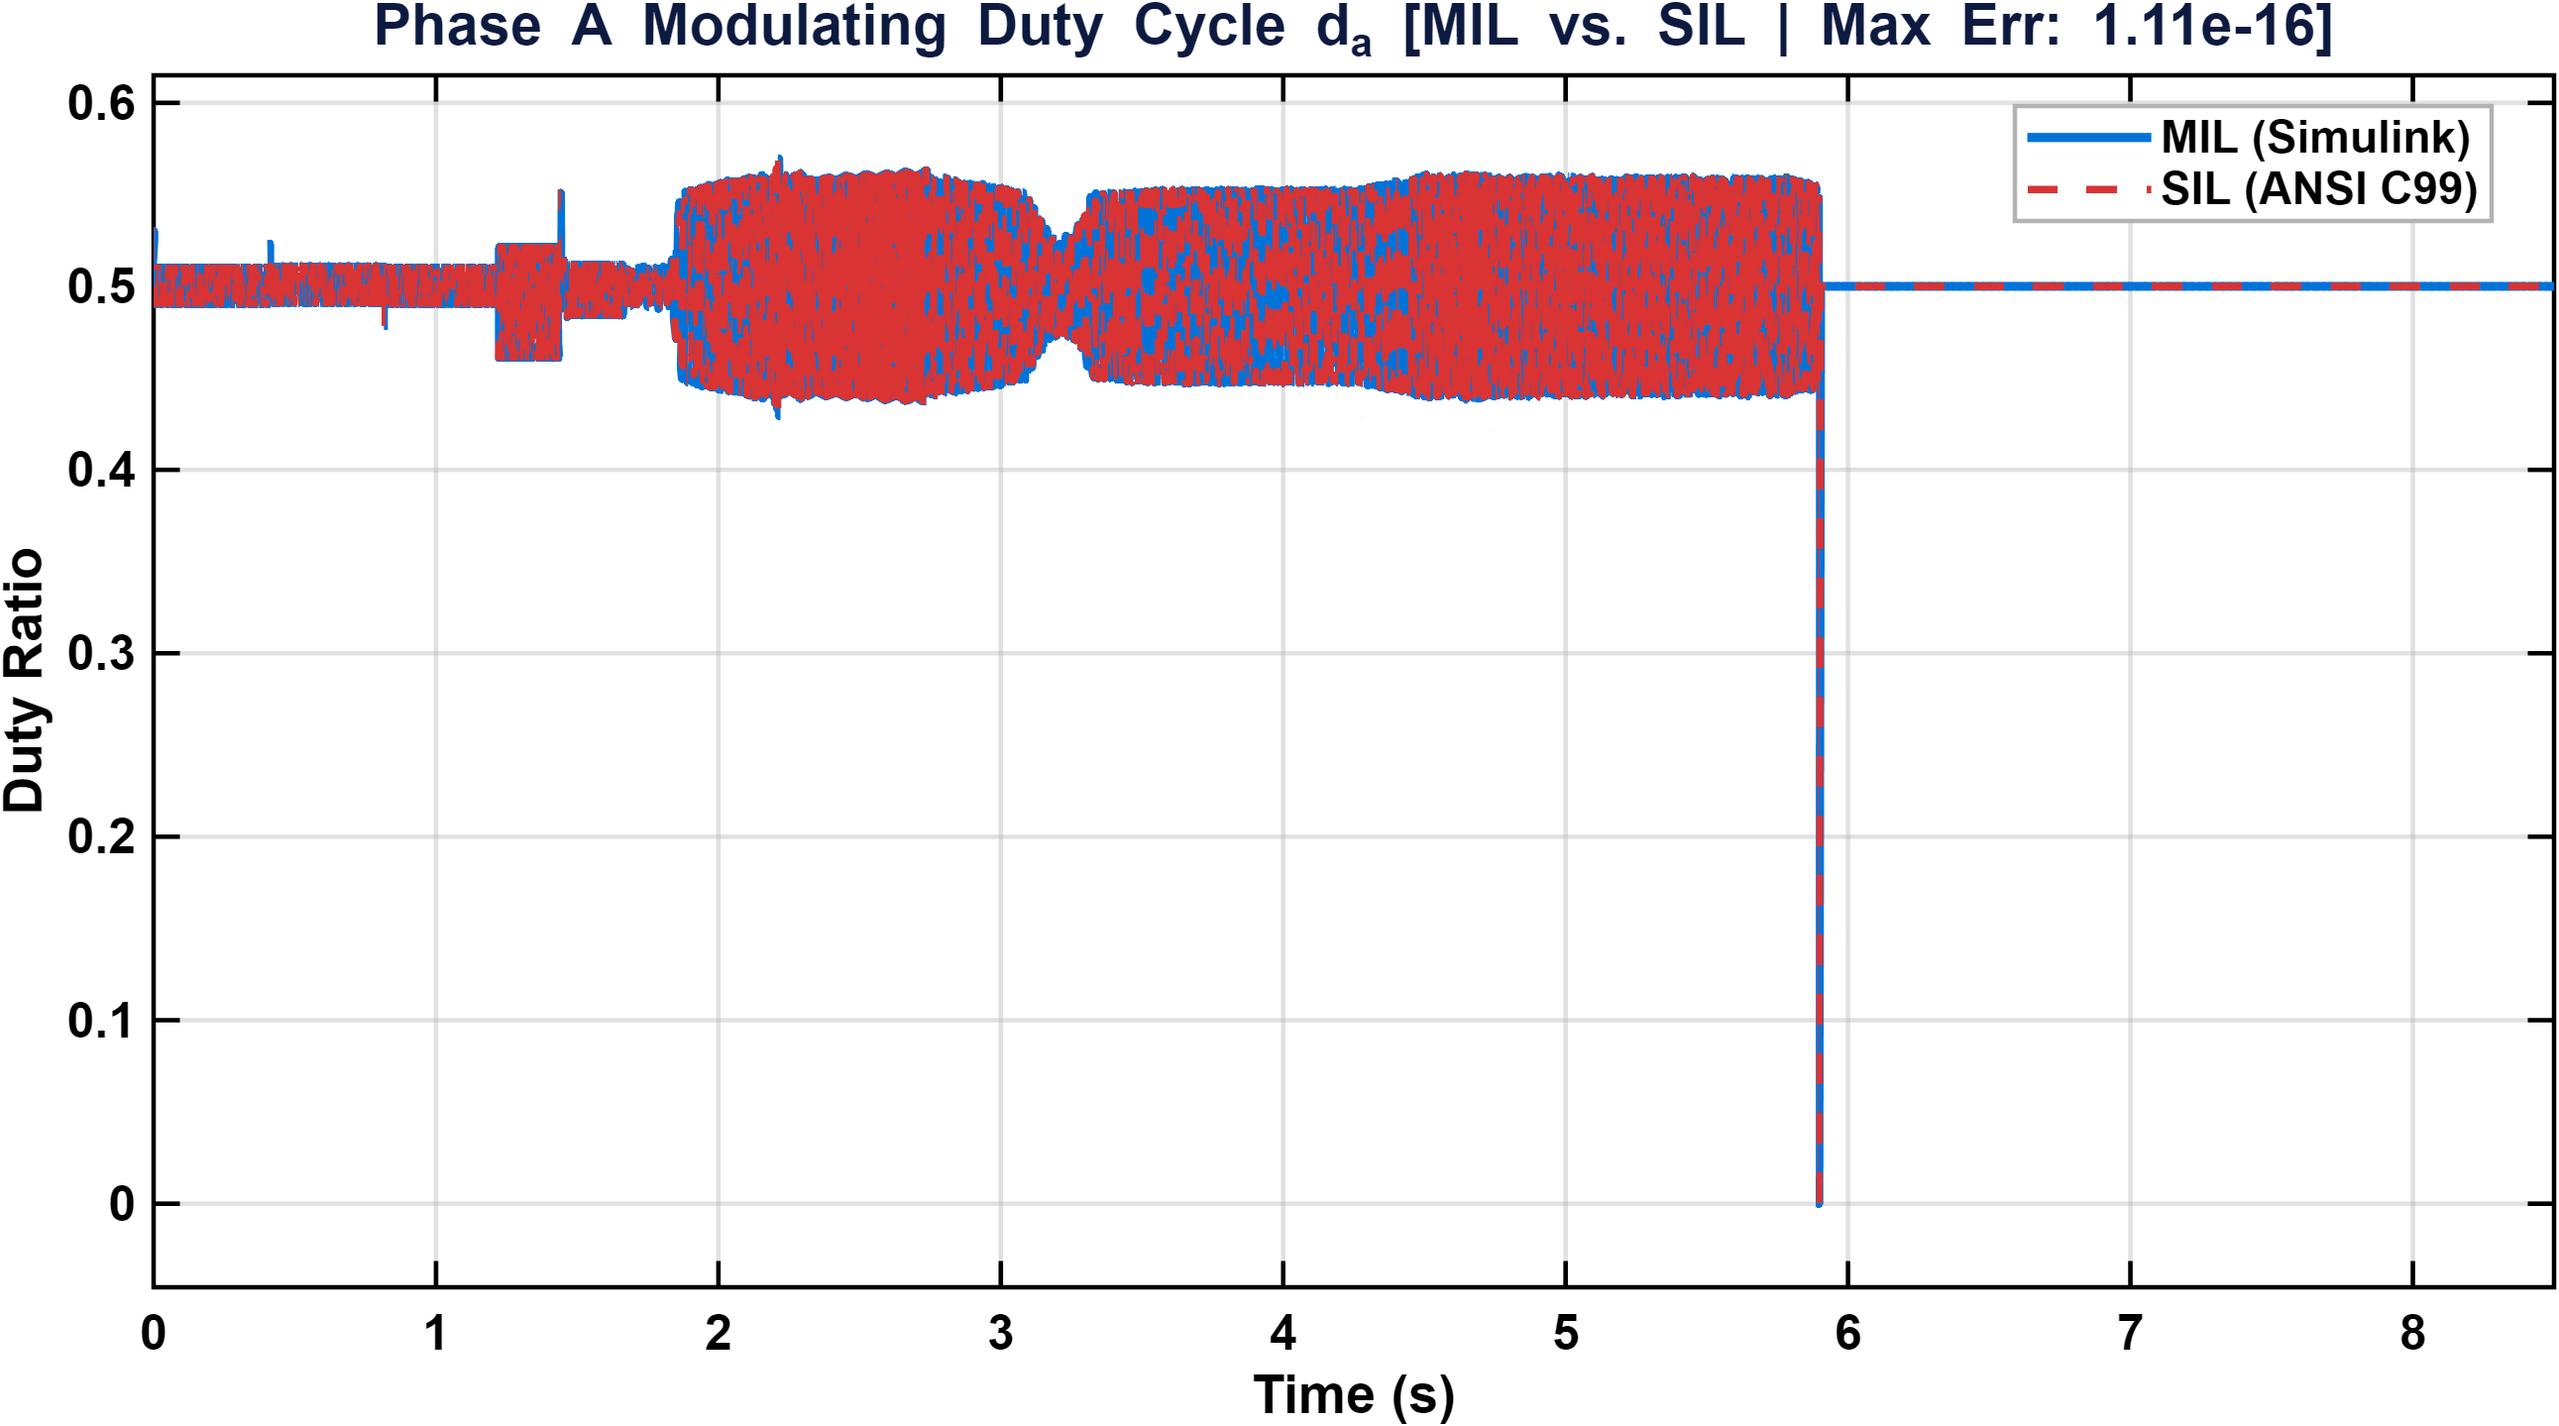
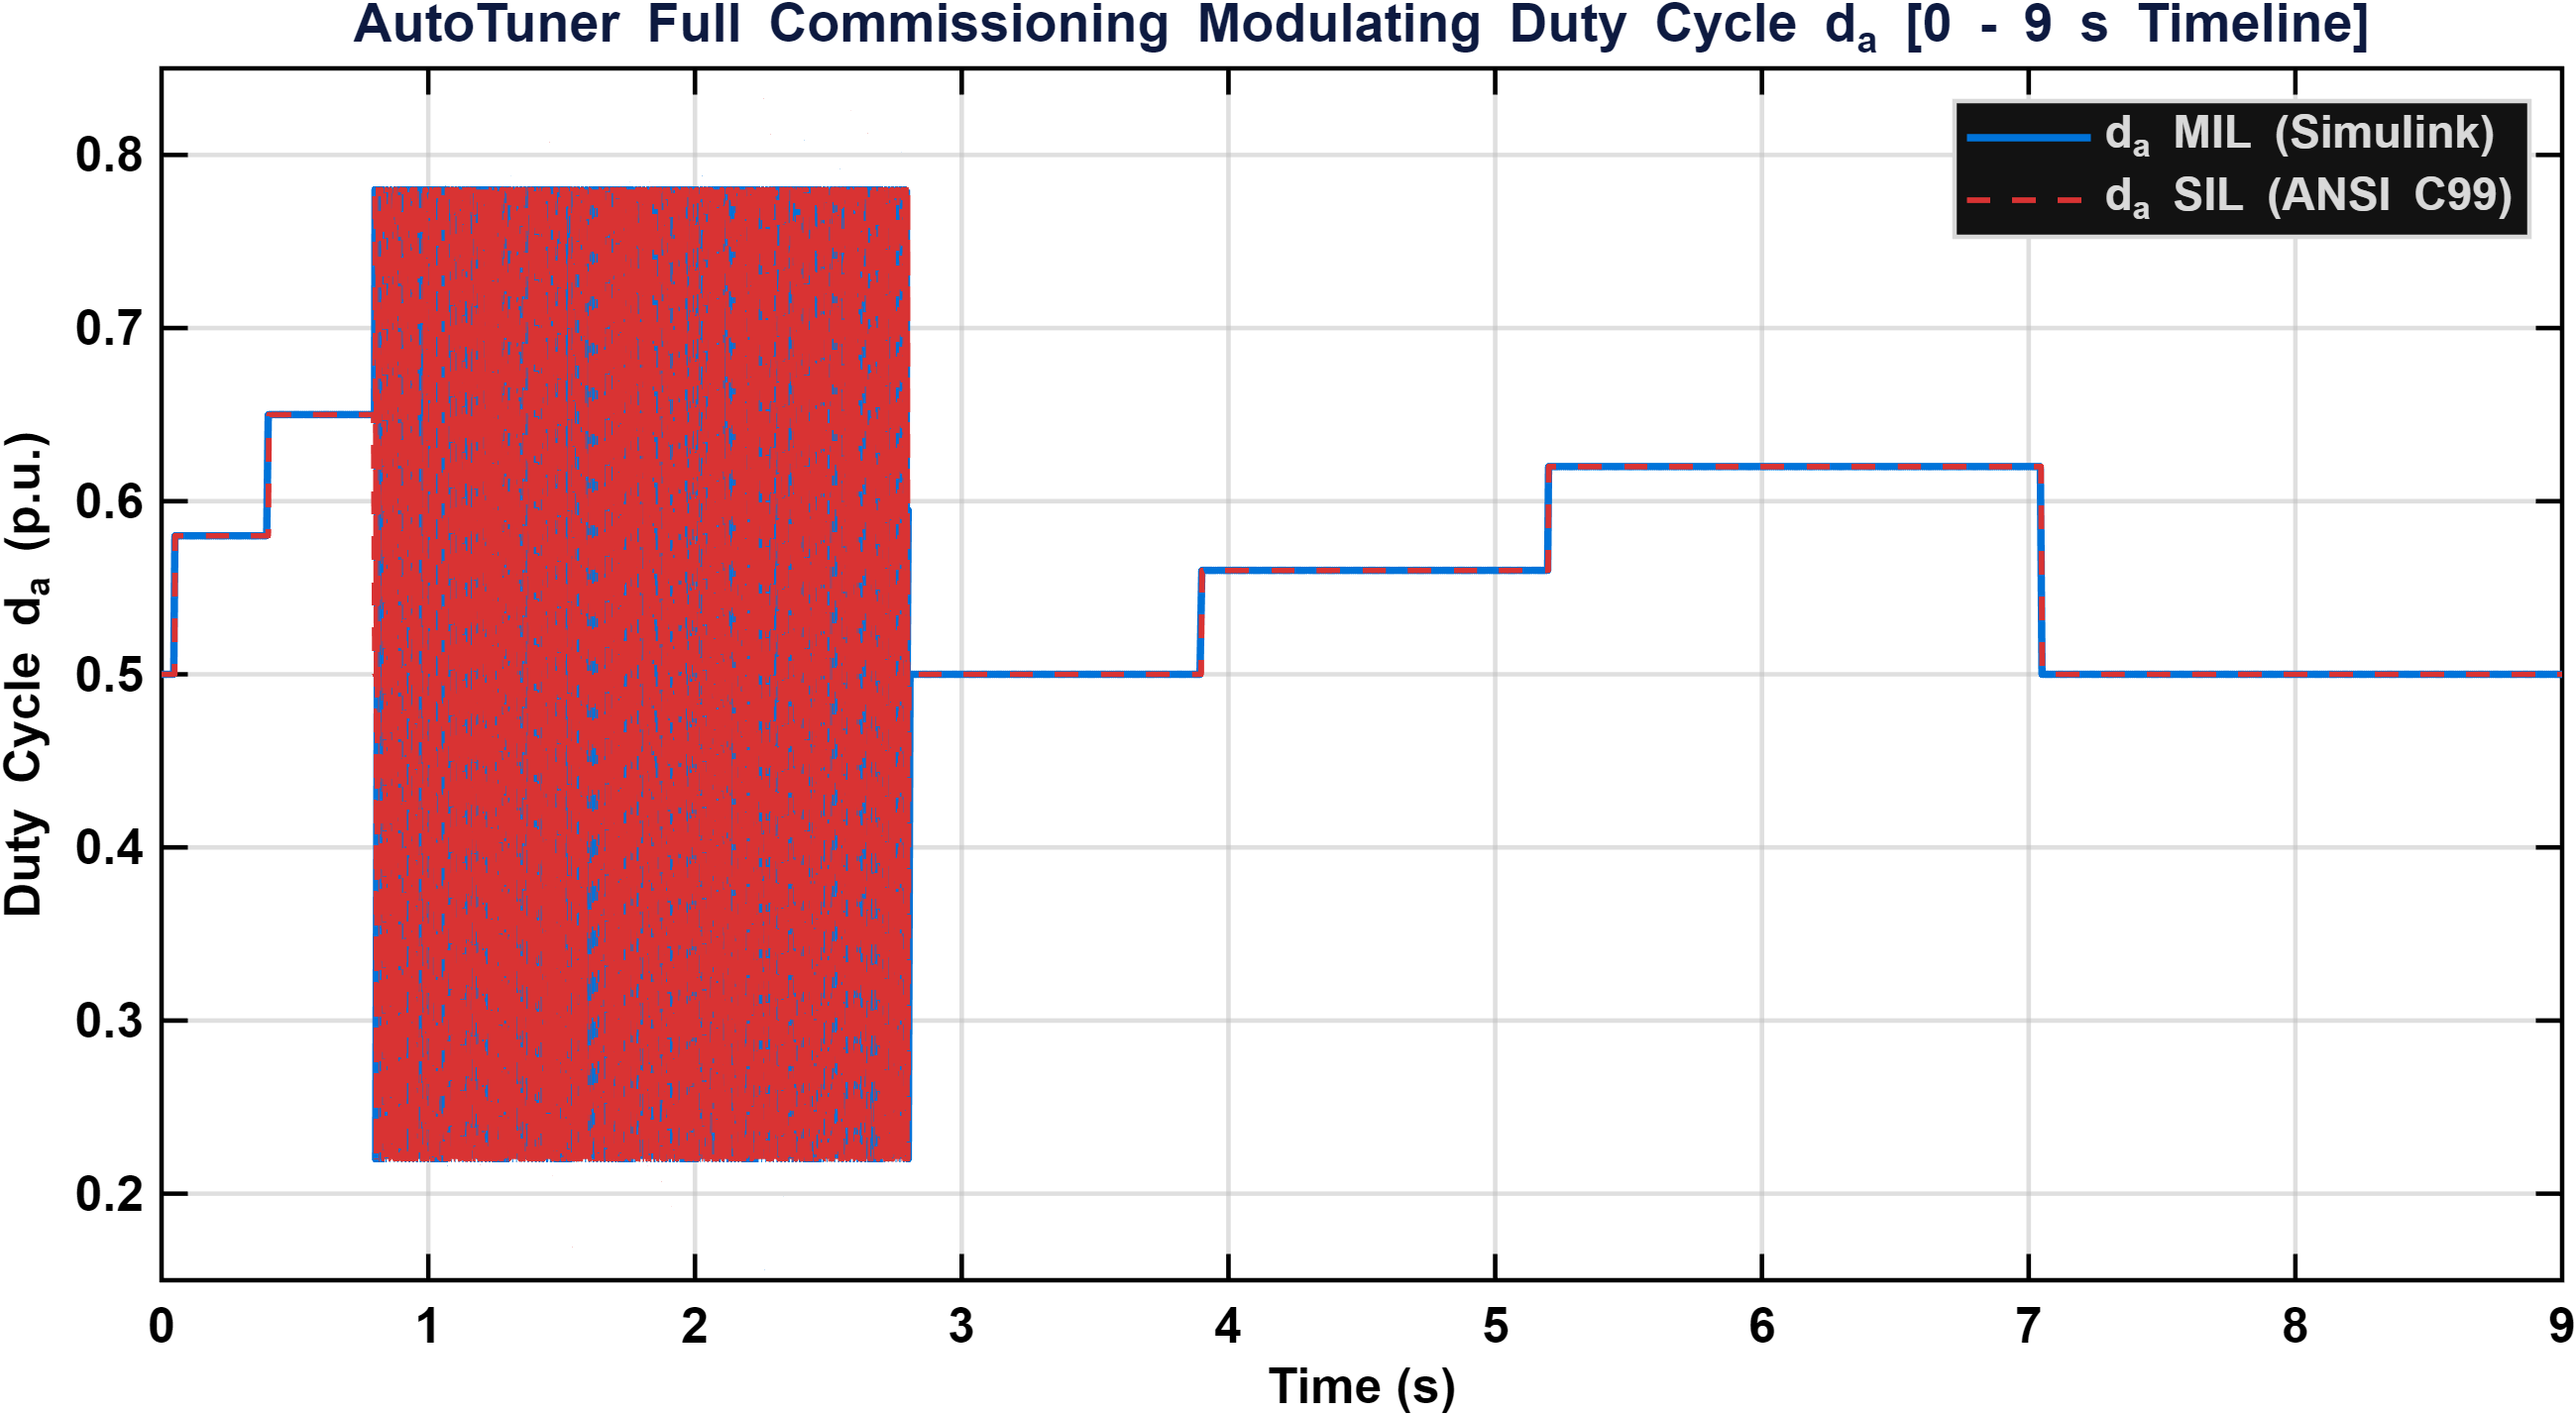
feat(review-2): add high-resolution zoomed da plot and update presentation slide

diff --git a/Review_2/Presentation/first_review.tex b/Review_2/Presentation/first_review.tex
@@ -1128,6 +1128,18 @@
     \end{itemize}
 \end{frame}
 
+\begin{frame}{30a. AutoTuner Result: Modulating Duty Cycle ($d_a$) High-Resolution Zoom}
+    \centering
+    \includegraphics[height=0.52\textheight,keepaspectratio]{AutoTuner_MIL_vs_SIL_da_Zoomed.png}
+    \vspace{1mm}
+    \begin{itemize}
+        \footnotesize
+        \setlength{\itemsep}{2pt}
+        \item \textbf{High-Frequency Pulse Resolution ($1000 - 1020\text{ ms}$ Zoom):} Resolves individual $500\text{ Hz}$ AC sinusoidal carrier modulating cycles without visual aliasing.
+        \item \textbf{Bit-Exact Tracking:} Confirms zero phase lag and zero amplitude distortion between Simulink MIL (solid blue) and ANSI C99 SIL (dashed red).
+    \end{itemize}
+\end{frame}
+
 \begin{frame}{31. AutoTuner Result: Control Mode Flag (`ctrl\_mode`) MIL vs. SIL}
     \centering
     \includegraphics[height=0.52\textheight,keepaspectratio]{AutoTuner_MIL_vs_SIL_ctrl_mode.png}
